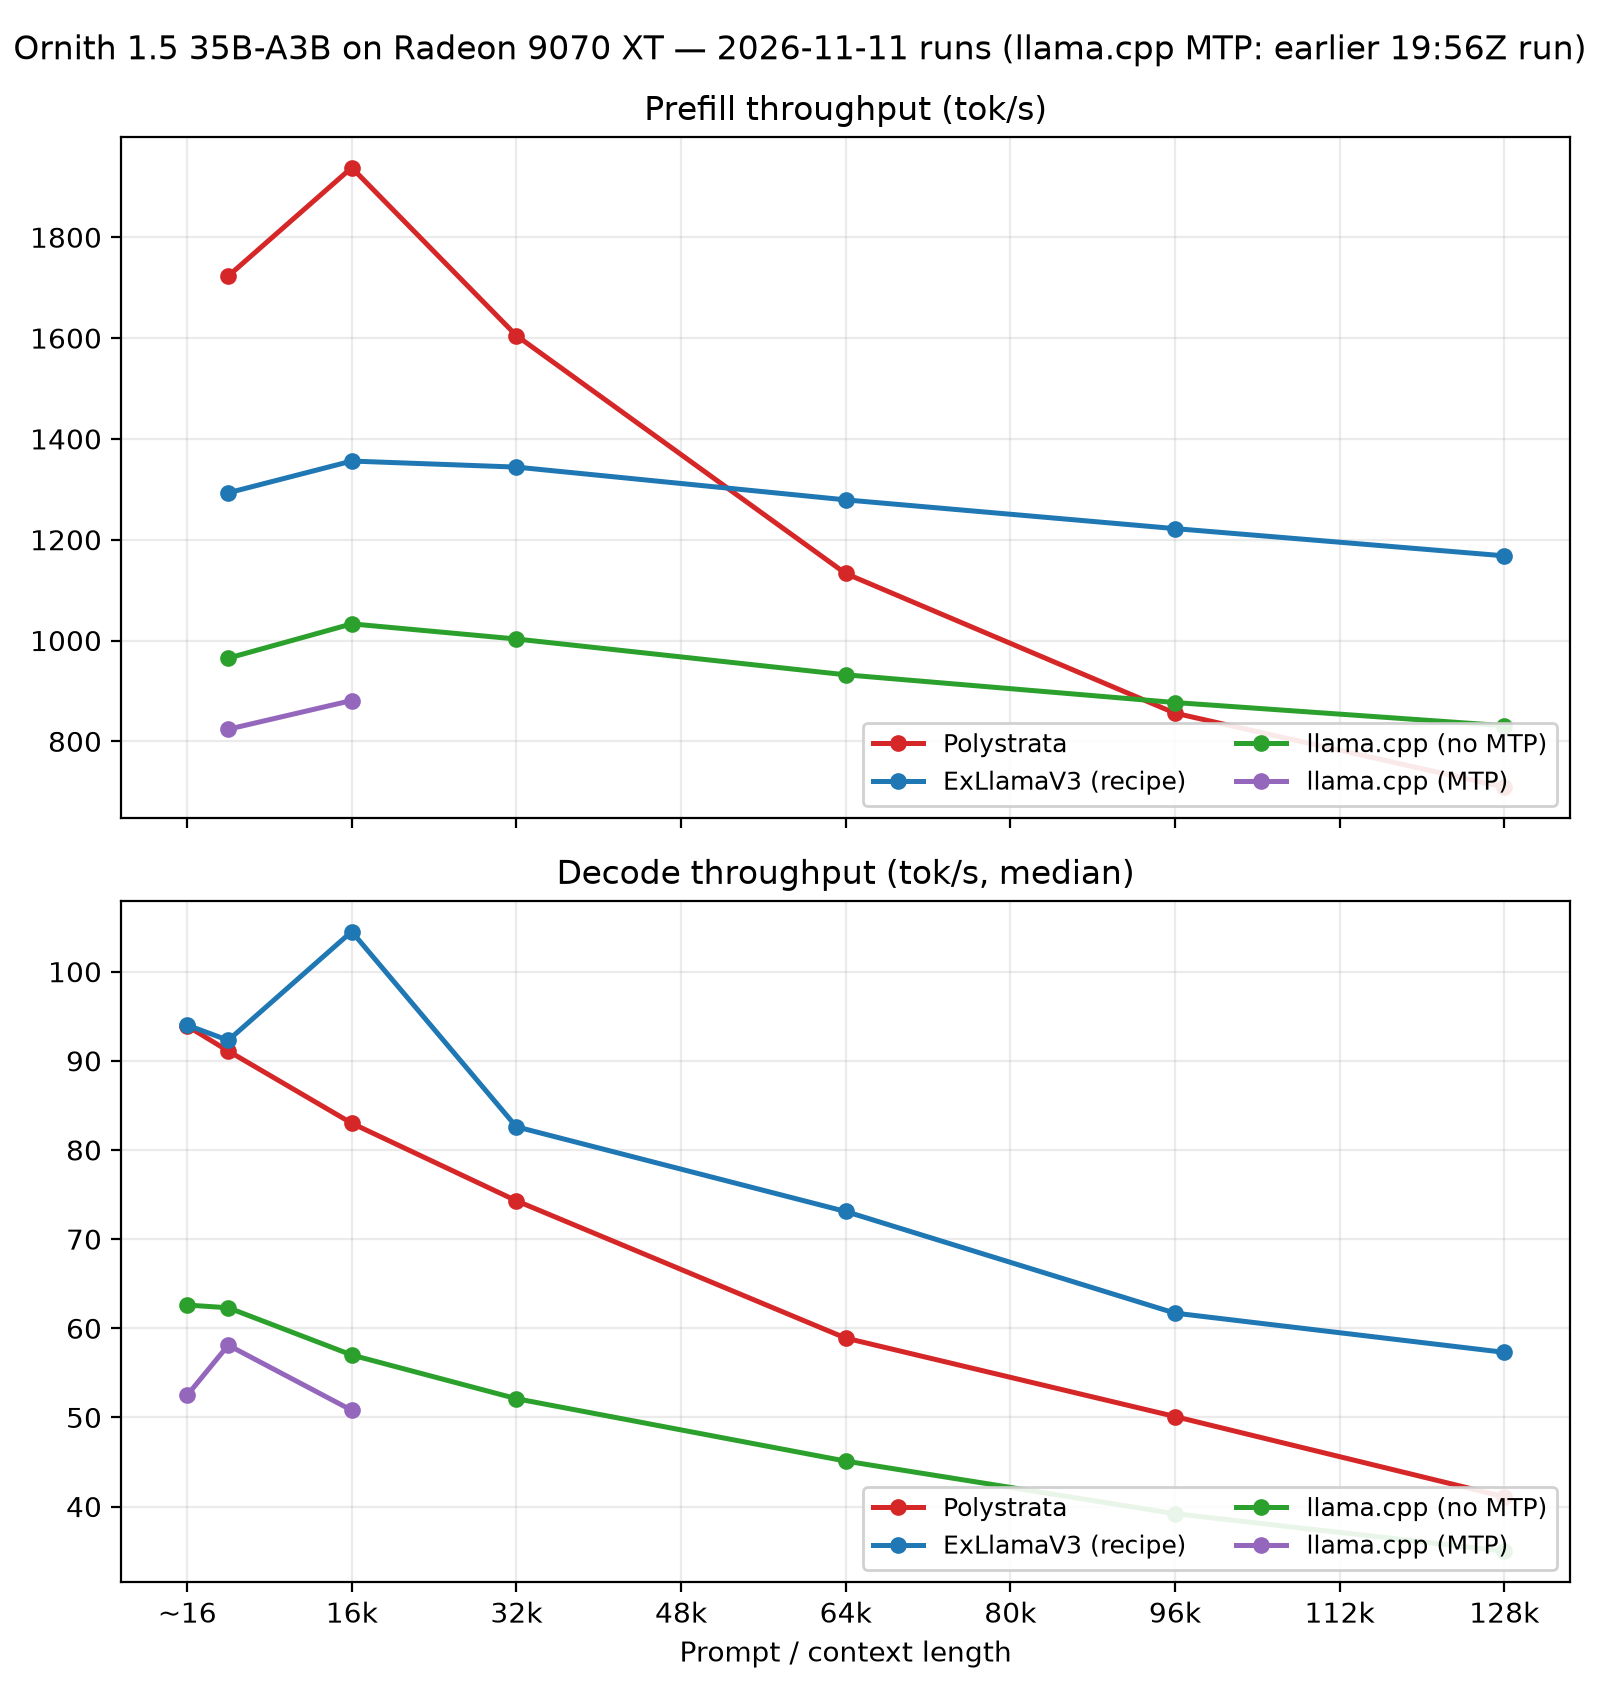
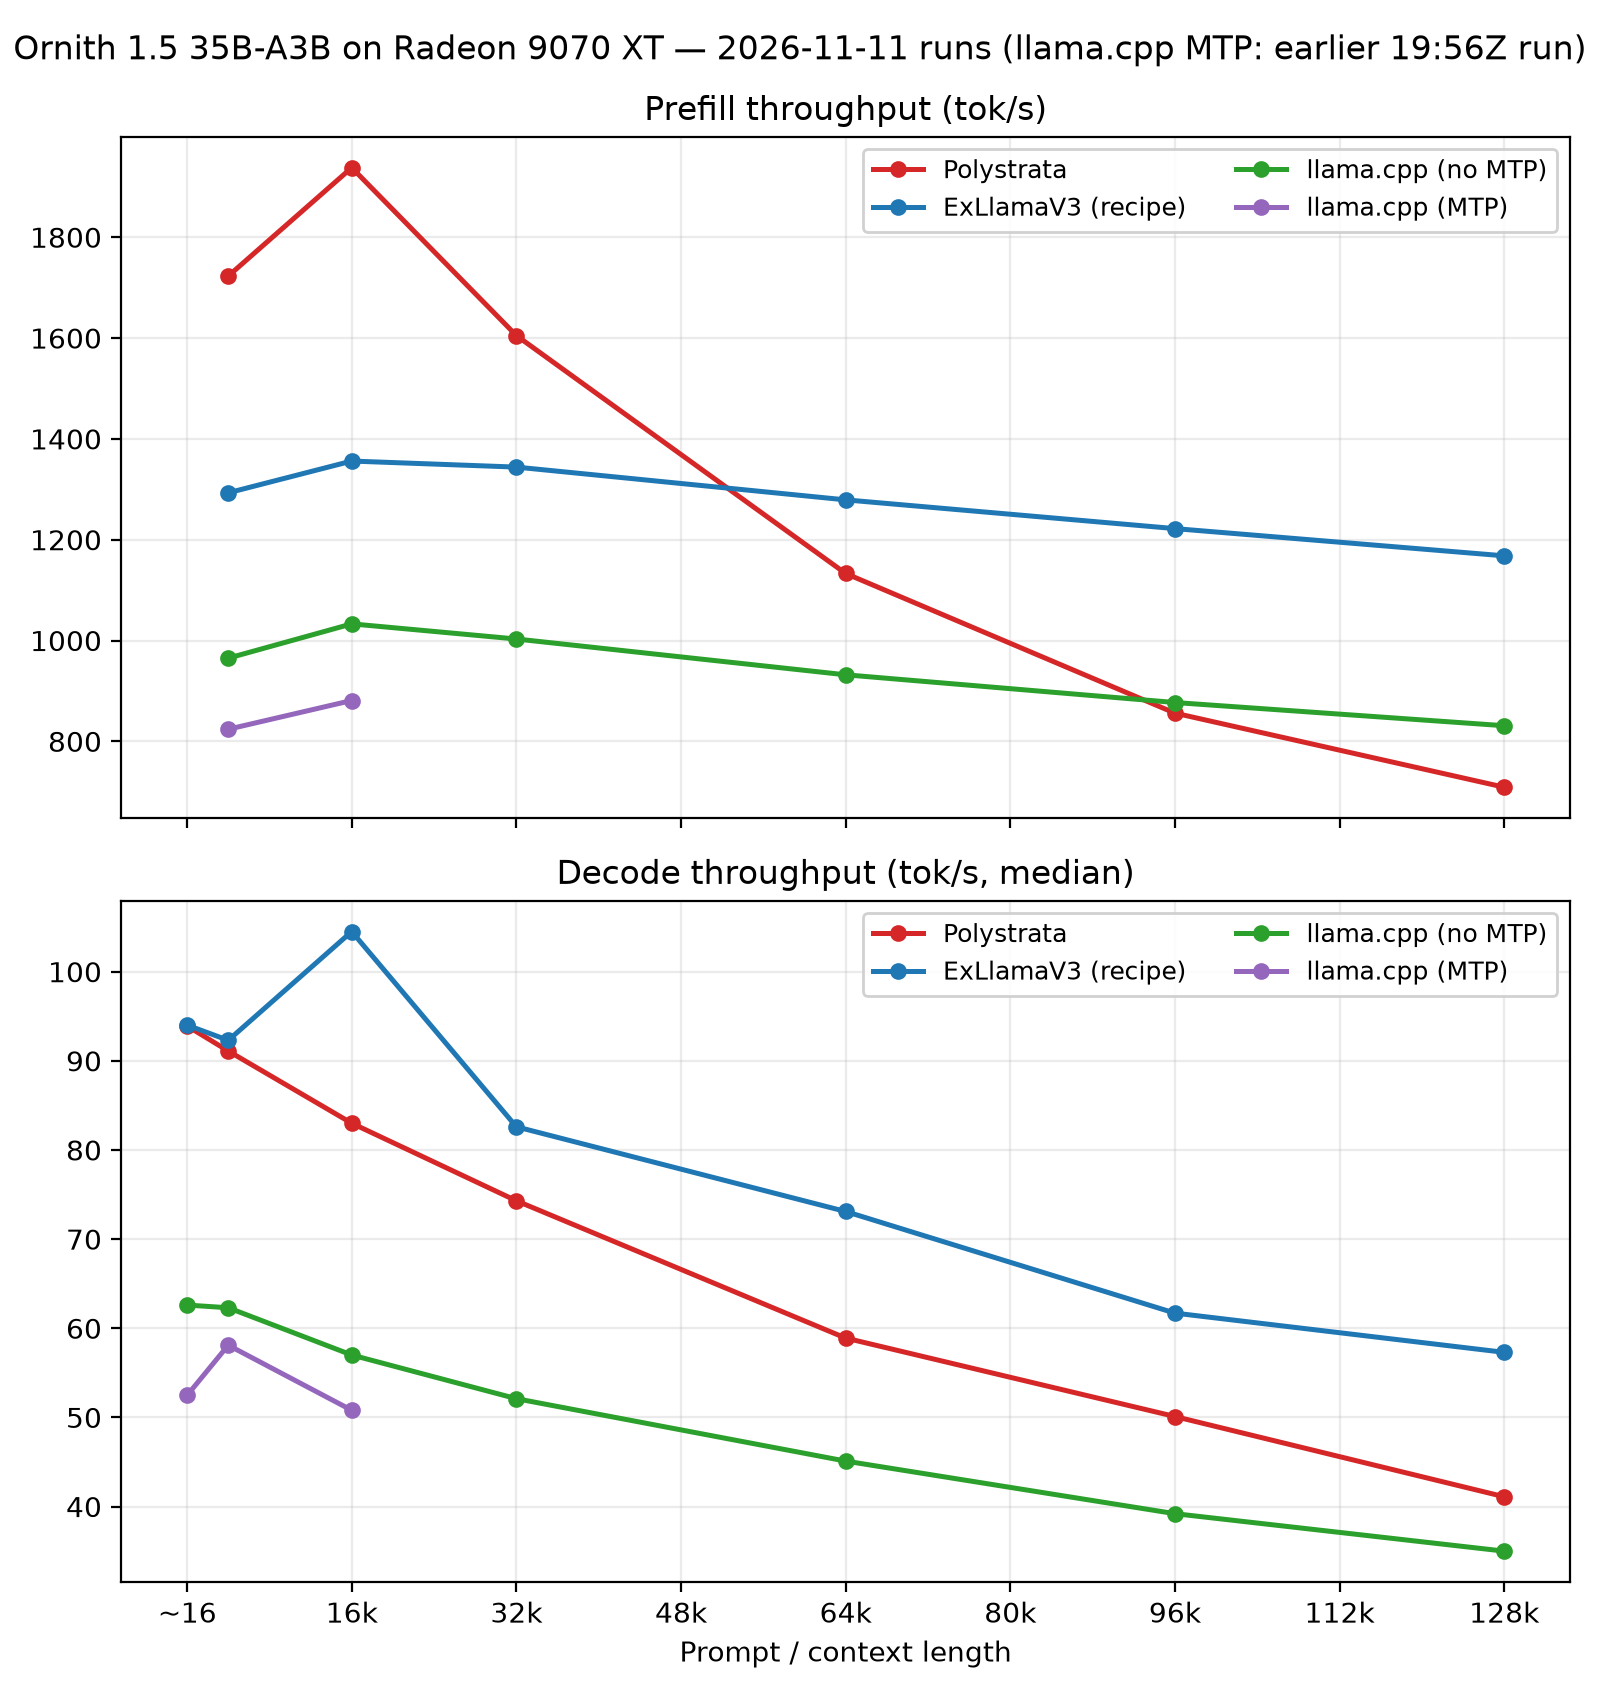
move legend to top right

diff --git a/plots/make_plots.py b/plots/make_plots.py
@@ -31,7 +31,7 @@ for ax, data, title in ((ax1, prefill, "Prefill throughput (tok/s)"),
         ax.plot(xs, ys, marker="o", label=name, color=colors[name], lw=1.8, ms=5)
     ax.set_title(title)
     ax.grid(True, alpha=0.25)
-    ax.legend(loc="lower right", ncol=2, fontsize=9, framealpha=0.9)
+    ax.legend(loc="upper right", ncol=2, fontsize=9, framealpha=0.9)
 
 ax2.set_xticks([0.02, 16, 32, 48, 64, 80, 96, 112, 128])
 ax2.set_xticklabels(["~16", "16k", "32k", "48k", "64k", "80k", "96k", "112k", "128k"])
